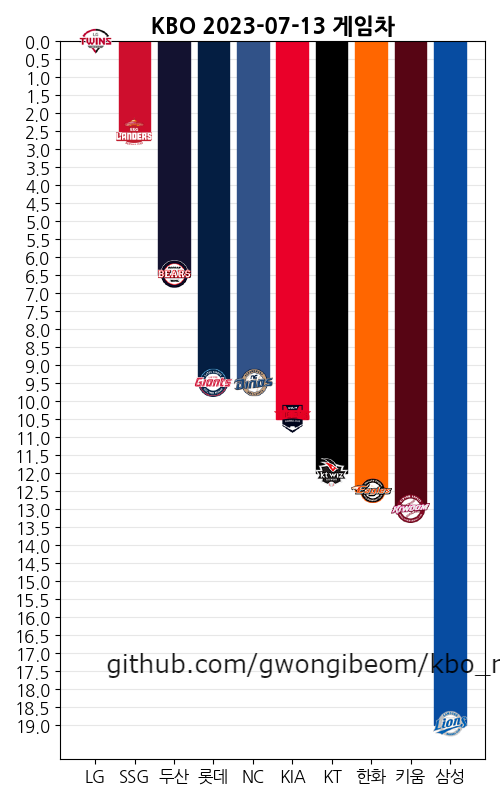
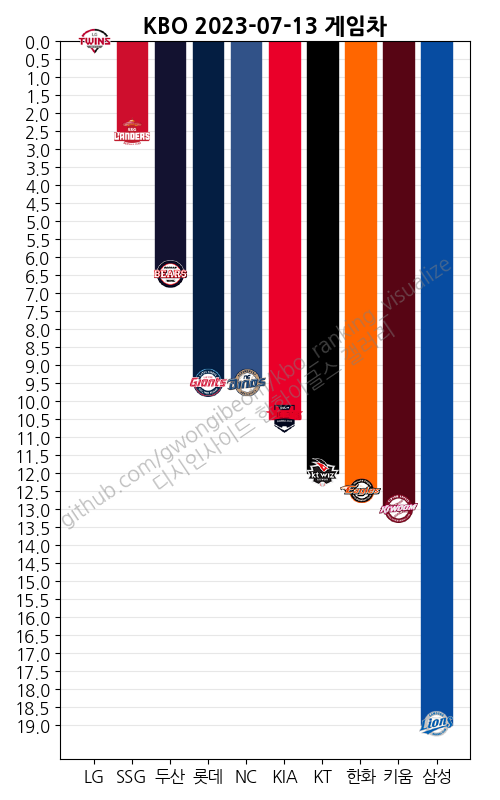
feat 1.1.0 add text watermark

diff --git a/index.py b/index.py
@@ -8,7 +8,6 @@ import io
 url = "https://sports.news.naver.com/kbaseball/record/index?category=kbo"
 response = requests.get(url)
 soup = BeautifulSoup(response.content, "html.parser")
-watermark = plt.imread("./watermark.png")
 table = soup.find(id="regularTeamRecordList_table")
 
 if table is None:
@@ -90,7 +89,10 @@ for i, (logo, value) in enumerate(zip(team_logos, games_behind_values)):
     ax.add_artist(ab)
     ax.get_children()[i].set_color(colors.get(team_names[i], "blue"))
 
-fig.figimage(watermark, resize=False, alpha=0.9,xo=7, yo=120)
+ax.text(0.5, 0.5, 'github.com/gwongibeom/kbo_ranking_visualize \n 디시인사이드 한화이글스 갤러리', transform=ax.transAxes,
+        fontsize=15, color='gray', alpha=0.5,
+        ha='center', va='center', rotation=34)
+
 plt.tight_layout()
 plt.savefig(f'KBO{today}.png')
 plt.show()
